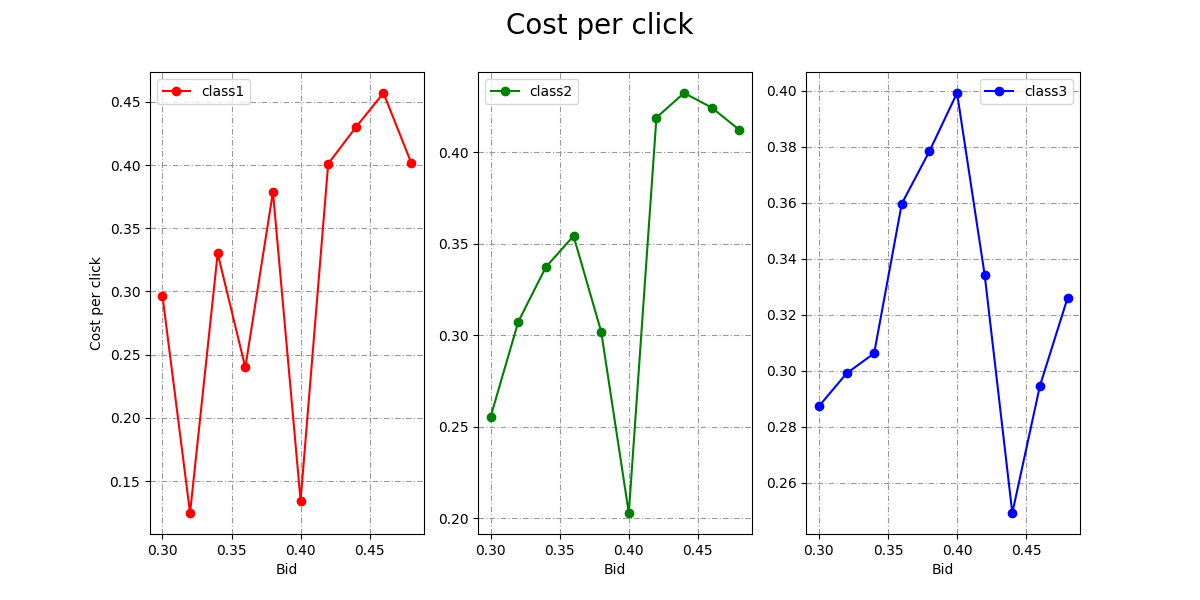
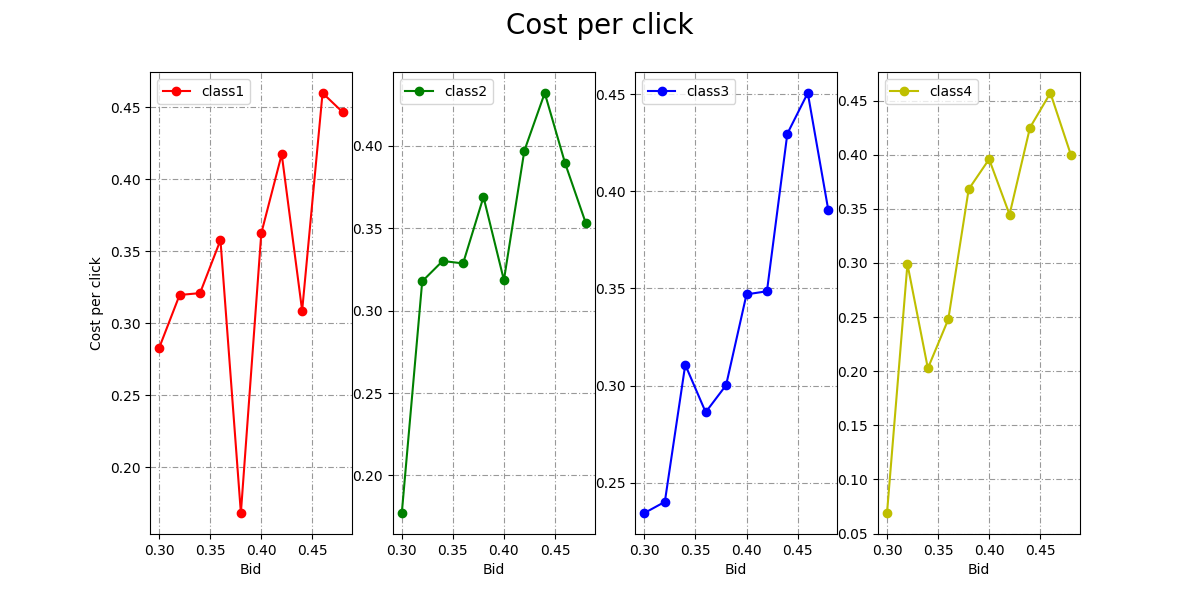
return probability function

diff --git a/plotter.py b/plotter.py
@@ -3,7 +3,7 @@ import yaml
 import numpy as np
 import matplotlib.pyplot as plt
 
-from pricing import conv_rate, cost_per_click
+from pricing import conv_rate, cost_per_click, return_probability
 
 
 
@@ -114,7 +114,7 @@ class Plotter:
     
     def plot_all_cost_per_click(self):
 
-        fig, ax = plt.subplots(figsize=(12, 6), nrows=1, ncols=3)
+        fig, ax = plt.subplots(figsize=(12, 6), nrows=1, ncols=4)
         #plt.tight_layout()
         fig.suptitle('Cost per click', fontsize=20)
 
@@ -146,6 +146,38 @@ class Plotter:
         savepath = os.path.join(self.config["imgpath"], filename)
         fig.savefig(savepath)
 
+    def plot_all_return_probability(self):
+
+        fig, ax = plt.subplots(figsize=(12, 6), nrows=1, ncols=4)
+        #plt.tight_layout()
+        fig.suptitle('Return Probability', fontsize=20)
+
+        ax[0].set_ylabel('Return Probability')
+
+        for index, user_class in enumerate(self.config["classes"]):
+
+            _lambda = self.config["return_probability"][index]
+            color = self.config["class_color"][index]
+            
+            
+            ax[index].set_title(f'Probability to return for {user_class}')
+            ax[index].set_xlabel("Number of comebacks")
+
+            ax[index].hist(
+                return_probability(_lambda), 
+                14, 
+                density=True, 
+                color=color,
+                label=f'{user_class}')
+
+            ax[index].legend(loc=0)
+            ax[index].grid(True, color='0.6', dashes=(5,2,1,2))
+
+        # saving image
+        filename = 'all_return_probability.png'
+        savepath = os.path.join(self.config["imgpath"], filename)
+        fig.savefig(savepath)
+
 if __name__ == "__main__":
     p = Plotter()
 
@@ -157,5 +189,6 @@ if __name__ == "__main__":
             p.plot_conv_rate(f1, f2)
     
     p.plot_all_cost_per_click()
+    p.plot_all_return_probability()
 
     

diff --git a/pricing.py b/pricing.py
@@ -7,3 +7,8 @@ def conv_rate(x, a=1, b=1, c=1):
 def cost_per_click(bid, alpha):
     beta = np.sqrt(bid)
     return bid * np.random.beta(alpha, beta, 1)
+
+
+def return_probability(_lambda, size=100000):
+    return np.random.poisson(_lambda, size=size)
+

diff --git a/README.md b/README.md
@@ -13,3 +13,20 @@ To generate all the images:
 # Folders:
 - img: images generated
 - others: resources, tutorial
+
+# git tutorial
+
+per controllare le modifiche nei file 
+
+    git status
+
+per fare una commit
+
+    # aggiungere tutte le modifiche fatte alla commit
+    git add --all   
+
+    # fare la commit, -m serve a specificare il messaggio
+    git commit -m "messaggio di commit" 
+
+    # inviare la commit
+    git push
